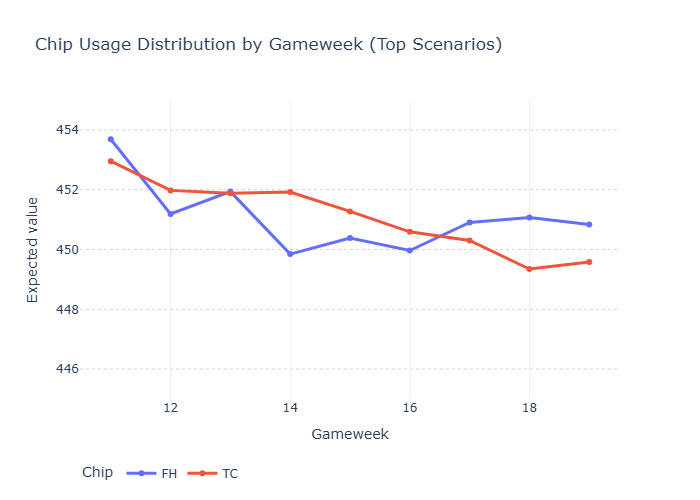
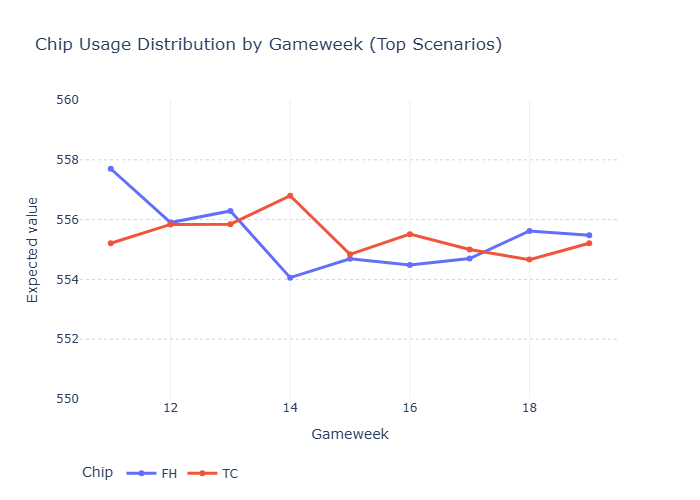
Added new post on fpl.

diff --git a/GW11_cs.md b/GW11_cs.md
@@ -1,16 +1,17 @@
+Base case for now is FH 11 + 
 
-| chip         | score  |
-|---------------|--------:|
-| FH11, TC14    | 455.7  |
-| FH11, TC12    | 454.7  |
-| TC11, FH13    | 454.7  |
-| FH11, TC17    | 454.2  |
-| FH11, TC15    | 454.1  |
-| TC11, FH12    | 453.9  |
-| FH11, TC16    | 453.9  |
-| TC12, FH13    | 453.9  |
-| FH11, TC13    | 453.7  |
-| TC11, FH17    | 453.6  |
+| chip       | score |
+| ---------- | ----: |
+| FH11, TC14 | 559.8 |
+| FH11, TC12 | 558.9 |
+| FH11, TC19 | 558.2 |
+| FH13, TC14 | 557.9 |
+| FH11, TC15 | 557.7 |
+| FH11, TC16 | 557.6 |
+| FH11, TC18 | 557.6 |
+| FH11, TC13 | 557.4 |
+| FH13, TC15 | 557.1 |
+| TC11, FH18 | 556.9 |
 
 
 ![Chip performance](../assets/images/optimization_chip_per_week_EV_bar_10.png)
